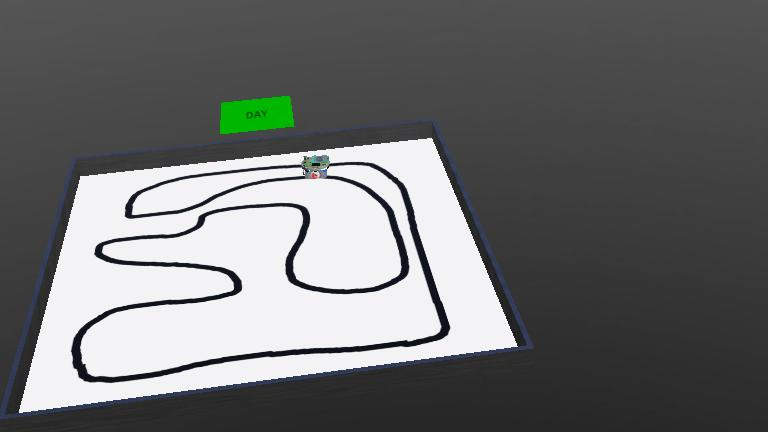
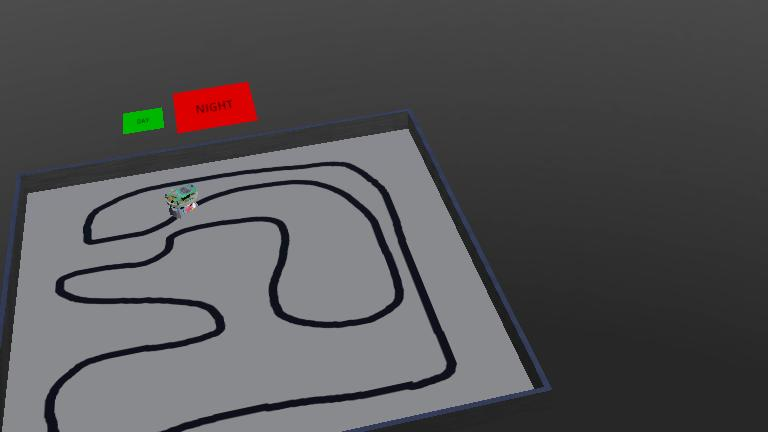
added button to interface

diff --git a/e-puck/controllers/change_color/change_color.py b/e-puck/controllers/change_color/change_color.py
@@ -1,44 +1,60 @@
 from controller import Supervisor
 from pathlib import Path
 import sys
+import os
 
 TIME_STEP = 32
 STATUS_FILE = Path(__file__).parent.parent.parent / 'resources'
 def main():
     robot = Supervisor()
+
     transform_node = robot.getFromDef('sign')
     shape_node = transform_node.getField('children').getMFNode(0)
     appearance_node = shape_node.getField('appearance').getSFNode()
     texture_node = appearance_node.getField('texture').getSFNode()
-    
+    url_field = texture_node.getField('url')
+
     floor = robot.getFromDef('floor')
     floorAppearance = floor.getField('floorAppearance')
     appearance_node = floorAppearance.getSFNode()
     base_color_field = appearance_node.getField('baseColor')
     
-    url_field = texture_node.getField('url')
+    
+
+    button = robot.getDevice("button")
+    button.enable(TIME_STEP)
+    
 
     
     drift_active = False
+    button_pressed = False
     
     i = 0
     base_color_field.setSFColor([255/255,255/255,255/255])
     url_field.setMFString(0, str(STATUS_FILE / 'DAY.png'))
-    while robot.step(TIME_STEP) != -1:
-        if any(start <= i < end for start, end in drift_intervals) and not drift_active:
-            base_color_field.setSFColor([100/255,100/255,100/255])
-            url_field.setMFString(0, str(STATUS_FILE / 'NIGHT.png'))
-            drift_active = True
-        if not any(start <= i < end for start, end in drift_intervals) and drift_active:
-            url_field.setMFString(0, str(STATUS_FILE / 'DAY.png'))
-            drift_active = False
-            base_color_field.setSFColor([255/255,255/255,255/255])
-        i+=1
 
     
+    while robot.step(TIME_STEP) != -1:
+        touch_value = button.getValue()
+            
+        
+            
+        if touch_value > 0:
+            if not button_pressed:
+                drift_active = not drift_active
+                if drift_active:
+                    base_color_field.setSFColor([100/255,100/255,100/255])
+                    url_field.setMFString(0, str(STATUS_FILE / 'NIGHT.png'))
+                else:
+                    base_color_field.setSFColor([255/255,255/255,255/255])
+                    url_field.setMFString(0, str(STATUS_FILE / 'DAY.png'))
+                button_pressed = True
+        else:
+            button_pressed = False
+        i+=1
+
+
 if __name__ == "__main__":
-    global drift_intervals
-    drift_intervals = eval(sys.argv[1])
     main()
 
 
